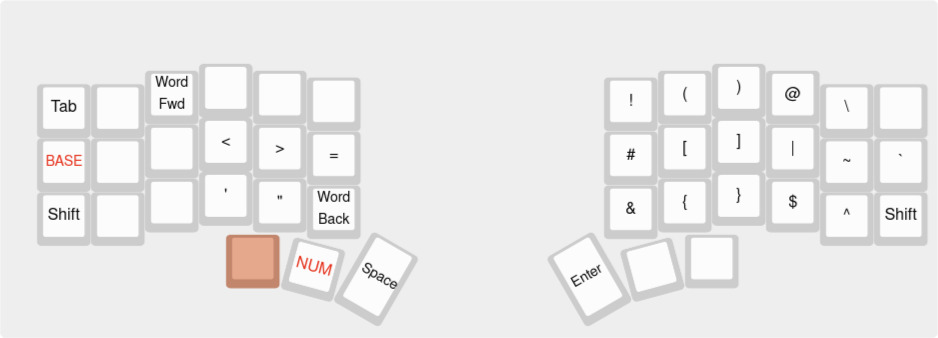
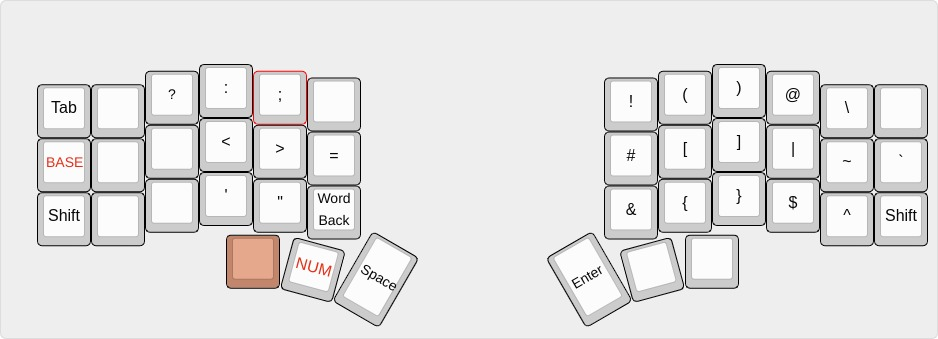
add ?, ;, : to the symbol layer

Changed region(s): [[0.0309, 0.1775, 0.4328, 0.9467], [0.5874, 0.1775, 0.9893, 0.9763], [0.4328, 0.7396, 0.4638, 0.7988]]

diff --git a/keyboards/crkbd/keymaps/pogues/keymap.c b/keyboards/crkbd/keymaps/pogues/keymap.c
@@ -100,7 +100,7 @@ OSM(MOD_LSFT),  MY_S_Z,    KC_X,    KC_C,    KC_V,    KC_B,                     
 
   [LSYM] = LAYOUT_split_3x6_3(
   //,-----------------------------------------------------.                    ,-----------------------------------------------------.
-      _______, XXXXXXX, XXXXXXX, XXXXXXX, XXXXXXX, XXXXXXX,                      KC_EXLM, KC_LPRN, KC_RPRN,   MY_AT, KC_NUBS, KC_BSPC,
+      _______, XXXXXXX, KC_QUES, KC_COLN, KC_SCLN, XXXXXXX,                      KC_EXLM, KC_LPRN, KC_RPRN,   MY_AT, KC_NUBS, KC_BSPC,
   //|--------+--------+--------+--------+--------+--------|                    |--------+--------+--------+--------+--------+--------|
      TO(LCMK), XXXXXXX, XXXXXXX,   KC_LT,   KC_GT,  KC_EQL,                      KC_NUHS, KC_LBRC, KC_RBRC, MY_PIPE, MY_TILD,  KC_GRV,
   //|--------+--------+--------+--------+--------+--------|                    |--------+--------+--------+--------+--------+--------|
